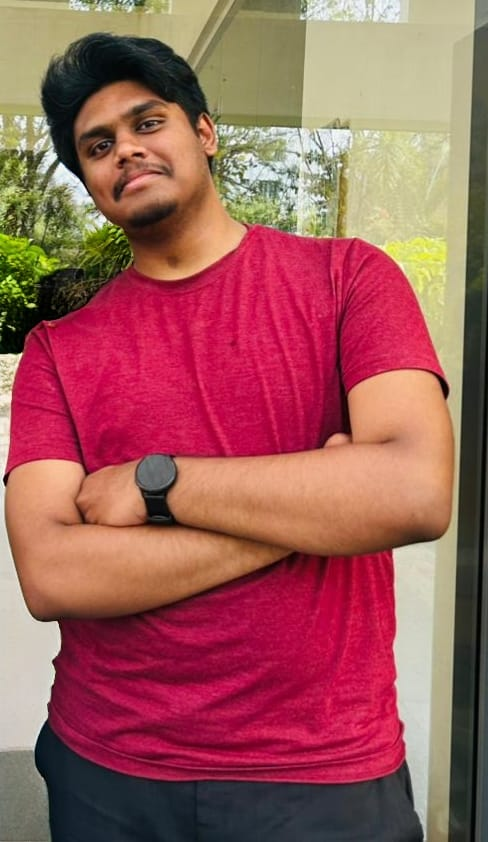
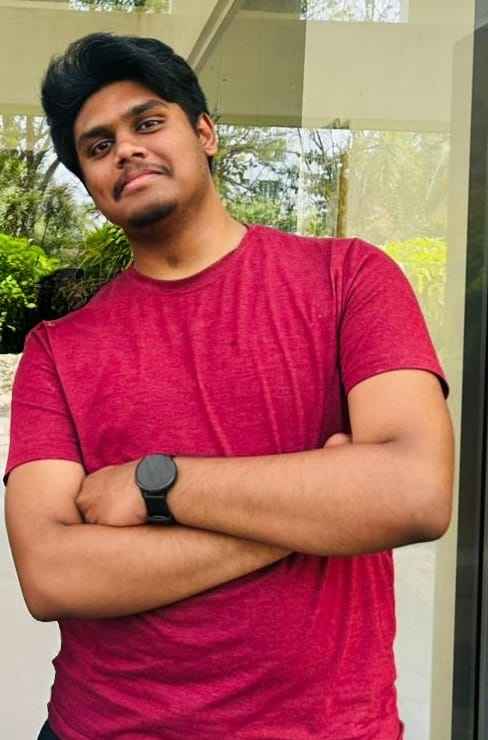
Update complete GRID team page and mobile navigation

diff --git a/team.css b/team.css
@@ -618,7 +618,62 @@
 .category-icon {
     color: #ff3030;
 }
+/* MOBILE NAVIGATION FIX */
+@media (max-width: 768px) {
+    header.nav {
+        position: relative;
+        z-index: 9999;
+    }
 
+    .nav-toggle {
+        display: block !important;
+        background: transparent;
+        border: none;
+        color: white;
+        font-size: 28px;
+        cursor: pointer;
+        z-index: 10001;
+    }
+
+    .nav nav {
+        display: none;
+        position: absolute;
+        top: calc(100% + 10px);
+        left: 0;
+        right: 0;
+        width: 100%;
+        background: #121215;
+        border: 1px solid rgba(255,255,255,0.12);
+        border-radius: 14px;
+        padding: 20px;
+    }
+
+    .nav.nav-open nav {
+        display: block;
+    }
+
+    .nav .nav-links {
+        display: flex;
+        flex-direction: column;
+        gap: 18px;
+        list-style: none;
+        padding: 0;
+        margin: 0;
+    }
+
+    .nav .nav-links a {
+        display: block;
+        color: white;
+        text-decoration: none;
+        padding: 8px;
+    }
+}
+
+@media (min-width: 769px) {
+    .nav-toggle {
+        display: none !important;
+    }
+}
 
 
 

diff --git a/team.js b/team.js
@@ -23,7 +23,7 @@ const teamMembers = {
     ],
 
     technical: [
-        { name: "Madesh H S", role: "Technical Team", photo: "images/team/technical1.jpeg", linkedin: "https://www.linkedin.com/in/madesh-h-s-2aa0153a0?utm_source=share_via&utm_content=profile&utm_medium=member_android" },
+        { name: "Madesh H S", role: "Technical Team", photo: "images/team/technical1.png", linkedin: "https://www.linkedin.com/in/madesh-h-s-2aa0153a0?utm_source=share_via&utm_content=profile&utm_medium=member_android" },
         { name: " K Vineel ", role: "Technical Team", photo: "images/team/technical2.jpeg", linkedin: "https://www.linkedin.com/in/k-vineel-9132863a4/" },
         { name: "Avanija ", role: "Technical Team", photo: "images/team/technical3.jpeg", linkedin: "https://www.linkedin.com/in/avanija-mantena-454919367?utm_source=share_via&utm_content=profile&utm_medium=member_android" }
     ],

diff --git a/team.html b/team.html
@@ -150,6 +150,32 @@
     </script>
 
     <script src="team.js"></script>
+    <script>
+const menuButton = document.querySelector(".nav-toggle");
+const navbar = document.querySelector(".nav");
+
+menuButton.addEventListener("click", function () {
+    navbar.classList.toggle("nav-open");
+
+    const isOpen = navbar.classList.contains("nav-open");
+
+    menuButton.setAttribute("aria-expanded", isOpen);
+    menuButton.setAttribute(
+        "aria-label",
+        isOpen ? "Close menu" : "Open menu"
+    );
+
+    menuButton.textContent = isOpen ? "✕" : "☰";
+});
+
+document.querySelectorAll(".nav-links a").forEach(link => {
+    link.addEventListener("click", () => {
+        navbar.classList.remove("nav-open");
+        menuButton.textContent = "☰";
+        menuButton.setAttribute("aria-expanded", "false");
+    });
+});
+</script>
 
 </body>
 </html>
